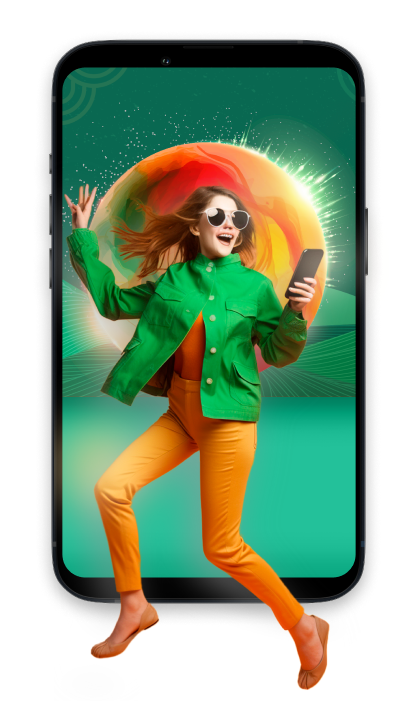
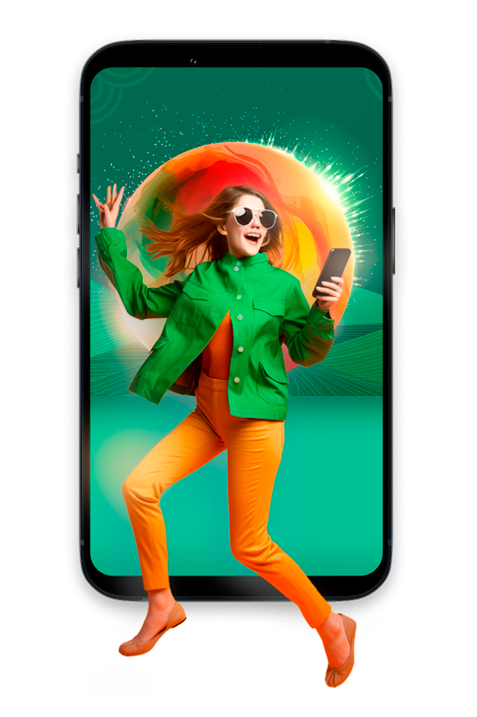
animations end

diff --git a/src/app/components/content/content.component.ts b/src/app/components/content/content.component.ts
@@ -31,7 +31,7 @@ const transitionPhone = trigger('phoneState', [
   )
 ]);
 
-const transitionPhonesRigth = trigger('imagePhone', [
+/* const transitionPhonesRigth = trigger('imagePhone', [
   state('scrolling', style({
     position: 'absolute',
     right: 0
@@ -44,22 +44,34 @@ const transitionPhonesRigth = trigger('imagePhone', [
   transition('scrolling <=> stopScroll',
     animate('.5s')
   )
+]); */
+
+const transitionOpt1 = trigger('image1', [
+  state('scrolling', style({
+    position: 'relative',
+    right: 0
+  })),
+  state('stopScroll', style({
+    position: 'fixed',
+    top: '11%',
+    right: 30
+  })),
+  transition('scrolling <=> stopScroll',
+    animate('0s')
+  )
 ]);
 
 @Component({
   selector: 'app-content',
   templateUrl: './content.component.html',
   styleUrls: ['./content.component.css'],
-  animations: [ transitionBanner, transitionPhone, transitionPhonesRigth ]
+  animations: [ transitionBanner, transitionPhone, transitionOpt1 ]
 })
 export class ContentComponent implements OnInit {
   runBanner: string = 'state1';
-  runImgPhone: string = 'scrolling';
-
-  imgtransition1: string = 'img-opt1';
-  imgtransition2: string = 'img-opt1';
-  imgtransition3: string = 'img-opt1';
-  imgtransition4: string = 'img-opt1';
+  runImgPhone1: string = 'scrolling';
+  runImgPhone2: string = 'scrolling';
+  runImgPhone3: string = 'scrolling';
 
   @HostListener('window:scroll', ['$event'])
   divScroll(e: any) {
@@ -71,43 +83,32 @@ export class ContentComponent implements OnInit {
       this.runBanner = 'state1';
     }
 
-    if (screen.width < 768) {
-      this.imgtransition1 = '';
-      this.imgtransition2 = '';
-      this.imgtransition3 = '';
-      this.imgtransition4 = '';
-    }
     
 
-    if(screen.width > 768 && currentPosition > 1000 && currentPosition < 1600) {
-      this.imgtransition1 = 'img-opt2';
-    } else if(screen.width < 768) {
-      this.imgtransition1 = 'img-opt'
+    if(currentPosition > 1000 && currentPosition < 1600) {
+      this.runImgPhone1 = 'stopScroll';
     } else {
-      this.imgtransition1 = 'img-opt1';
+      this.runImgPhone1 = 'scrolling';
     }
 
-    if(screen.width > 768 && currentPosition > 2040 && currentPosition < 2600) {
-      this.imgtransition2 = 'img-opt2';
-    } else if(screen.width < 768) {
-      this.imgtransition2 = 'img-opt'
+    if(currentPosition > 1970 && currentPosition < 2500) {
+      this.runImgPhone2 = 'stopScroll';
     } else {
-      this.imgtransition2 = 'img-opt1';
+      this.runImgPhone2 = 'scrolling';
     }
 
-    if(screen.width > 768 && currentPosition > 3120 && currentPosition < 3690) {
-      this.imgtransition3 = 'img-opt2';
-    } else if(screen.width < 768) {
-      this.imgtransition3 = 'img-opt'
+    if(currentPosition > 2830 && currentPosition < 3350) {
+      this.runImgPhone3 = 'stopScroll';
     } else {
-      this.imgtransition3 = 'img-opt1';
+      this.runImgPhone3 = 'scrolling';
     }
 
-    if(screen.width < 768) {
+    /* if(screen.width < 768) {
       this.imgtransition4 = 'img-opt'
-    } 
+    }  */
 
-    //[ngClass]="imgtransition4" 
+    console.log(currentPosition);
+    
 
   }
 

diff --git a/src/app/components/content/content.component.html b/src/app/components/content/content.component.html
@@ -21,7 +21,7 @@
 </div>
 <section class="options-bg">
     <div class="row content-opt">
-        <div class="text-opt col-md-7 col-sm-12">
+        <div class="text-opt col-md-8 col-sm-12">
             <div class="text-cont-opt">
                 <p class="title-opt">
                     Tus aplicaciones favoritas en un solo lugar
@@ -31,12 +31,12 @@
                 </p>
             </div>
         </div>
-        <div class="img-opt col-md-5 col-sm-12">
-            <img class="img-resp" src="../../../assets/images/Component-1.png" alt="">
+        <div [@image1]="runImgPhone1" class="img-opt col-md-4 col-sm-12">
+            <img class="img-resp1" src="../../../assets/images/Component-1.png" alt="">
         </div>
     </div>
     <div class="row content-opt">
-        <div class="text-opt col-md-7 col-sm-12">
+        <div class="text-opt col-md-8 col-sm-12">
             <div class="text-cont-opt">
                 <p class="title-opt">
                     Navegación ilimitada gratuita
@@ -46,12 +46,12 @@
                 </p>
             </div>
         </div>
-        <div class="img-opt col-md-5 col-sm-12">
-            <img class="img-resp" src="../../../assets/images/Component-2.png" alt="">
+        <div [@image1]="runImgPhone2" class="img-opt col-md-4 col-sm-12">
+            <img class="img-resp1" src="../../../assets/images/Component-2.png" alt="">
         </div>
     </div>
     <div class="row content-opt">
-        <div class="text-opt col-md-7 col-sm-12">
+        <div class="text-opt col-md-8 col-sm-12">
             <div class="text-cont-opt">
                 <p class="title-opt">
                     Privacidad y seguridad garantizadas
@@ -61,12 +61,12 @@
                 </p>
             </div>
         </div>
-        <div class="img-opt col-md-5 col-sm-12">
-            <img class="img-resp" src="../../../assets/images/Component-3.png" alt="">
+        <div [@image1]="runImgPhone3" class="img-opt col-md-4 col-sm-12">
+            <img class="img-resp1" src="../../../assets/images/Component-3.png" alt="">
         </div>
     </div>
     <div class="row content-opt">
-        <div class="text-opt col-md-7 col-sm-12">
+        <div class="text-opt col-md-8 col-sm-12">
             <div class="text-cont-opt">
                 <p class="title-opt">
                     Bloqueo de Ads
@@ -76,8 +76,8 @@
                 </p>
             </div>
         </div>
-        <div class="img-opt col-md-5 col-sm-12">
-            <img class="img-resp" src="../../../assets/images/Component-4.png" alt="">
+        <div class="img-opt col-md-4 col-sm-12">
+            <img class="img-resp-final" src="../../../assets/images/Component-4.png" alt="">
         </div>
     </div>
 </section>

diff --git a/src/app/components/content/content.component.css b/src/app/components/content/content.component.css
@@ -134,22 +134,30 @@
     font-size: 20px;
 }
 
-.img-opt1 {
-    position: absolute;
+.img-opt {
+    overflow: hidden;
+    /* position: fixed;
     right: 0;
+    top: 12%; */
 }
 
 .img-opt2 {
     position: fixed;
     top: 15%;
     right: 0;
-    transition: 0.2;
+}
+
+.img-resp-final {
+    position: relative;
 }
 
 .img-resp {
     float: right;
     /* margin-right: 150px; */
-    margin-right: 50px;
+}
+
+.img-resp1 {
+    overflow: hidden;
 }
 
 @media only screen and (max-width: 570px) {
